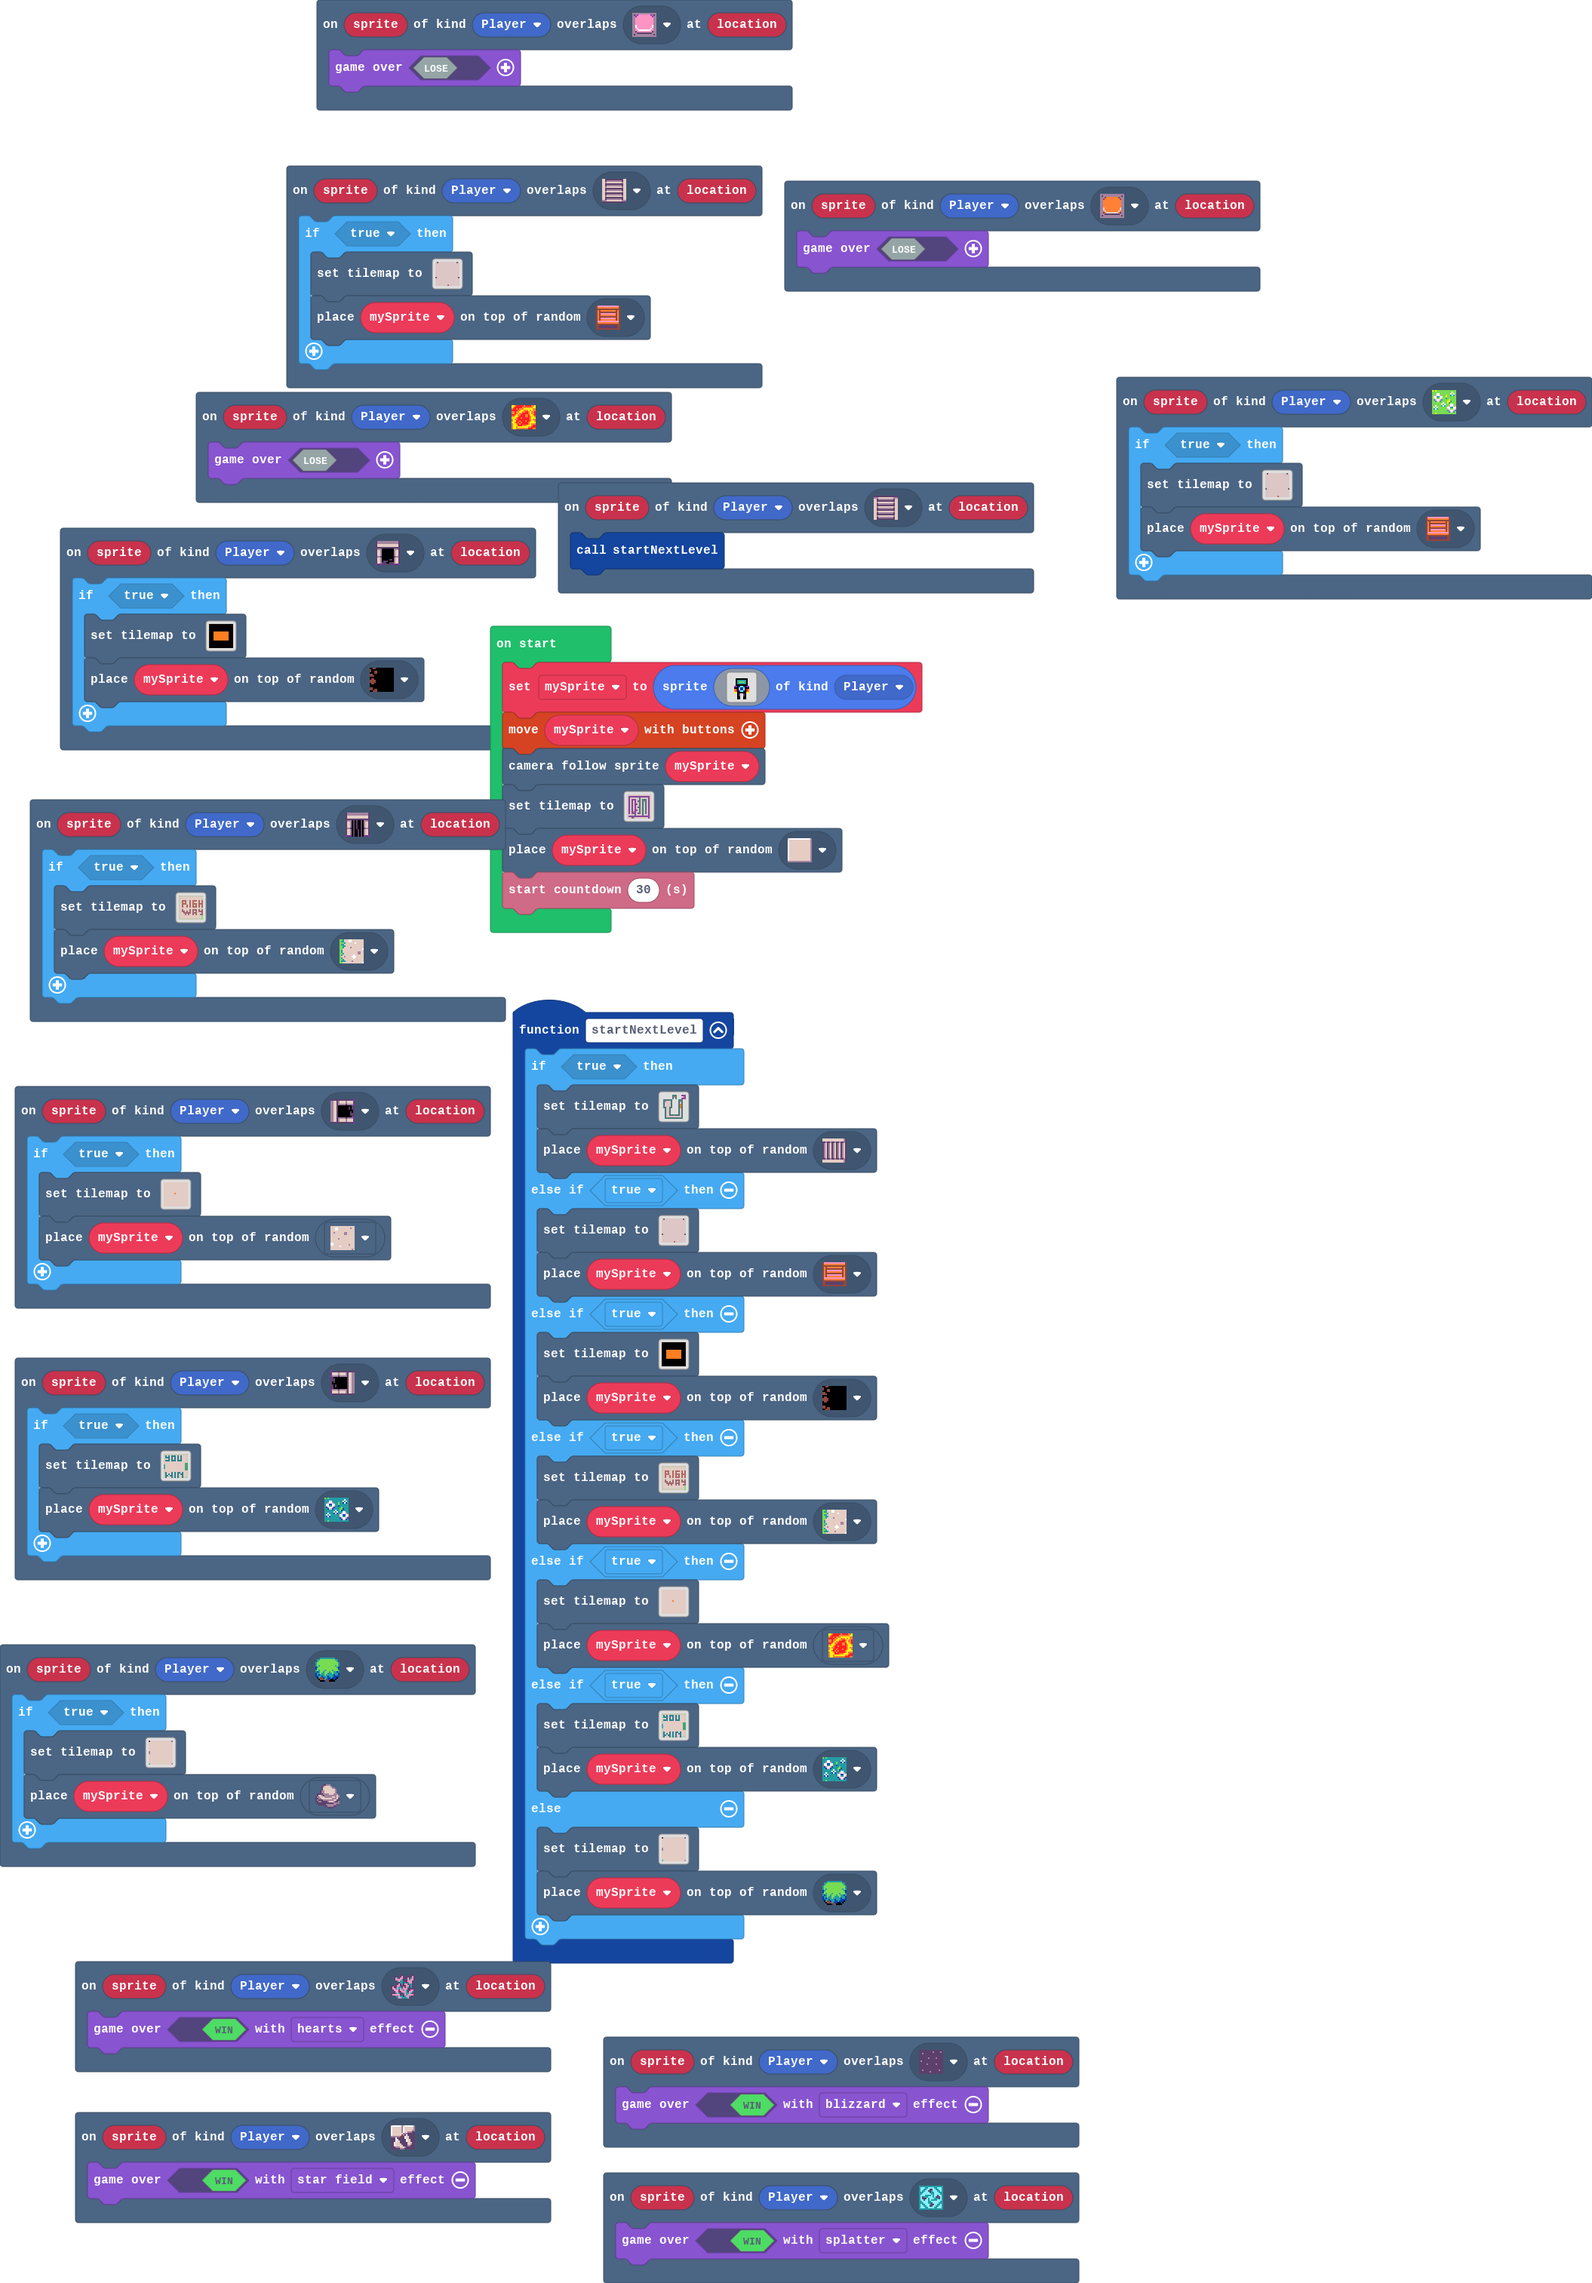
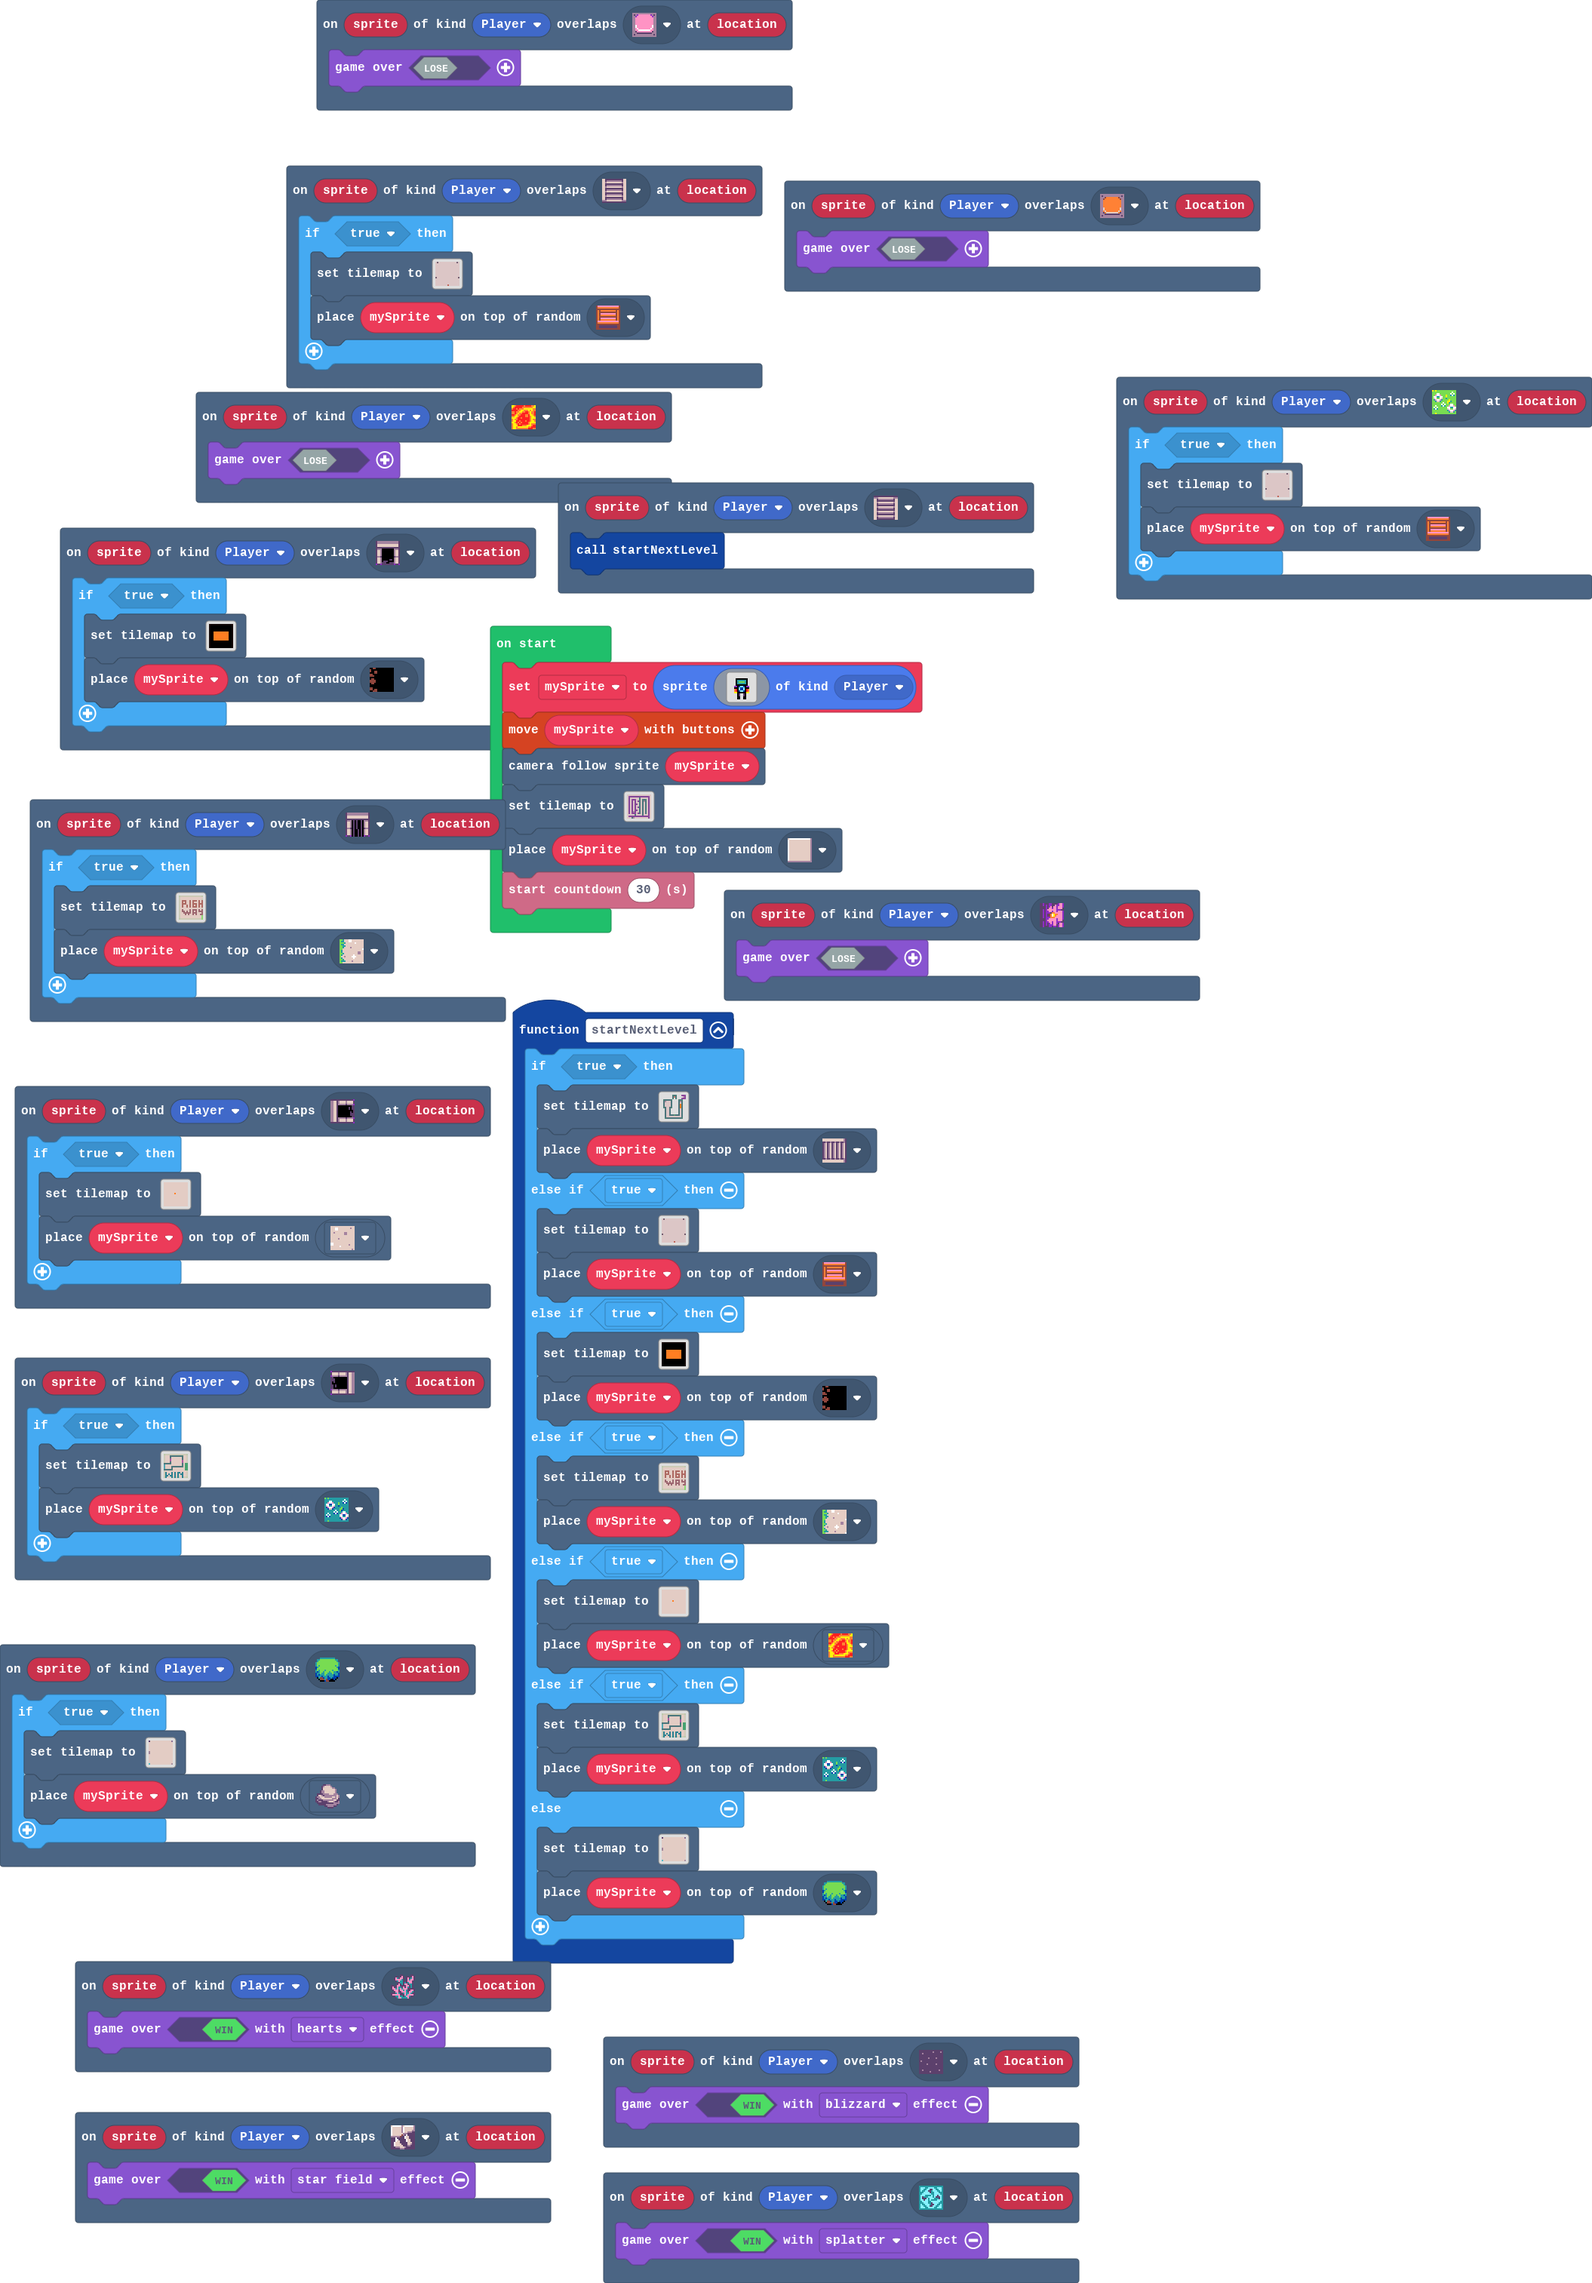
Update pxt.json, main.blocks, main.ts, tilemap.g.jres, tilemap.g.ts

Changed region(s): [[0.4313, 0.3728, 0.7701, 0.466]]

diff --git a/tilemap.g.ts b/tilemap.g.ts
@@ -197,25 +197,6 @@ namespace myTiles {
 . . . . . . . . . . . . . . . . 
 . . . . . . . . . . . . . . . . 
 `, [myTiles.transparency16], TileScale.Sixteen);
-            case "level14":
[1 lines of base64/hex data omitted]
-. . . . . . . . . . . . . . . . 
-. . . . . . . . . . . . . . . . 
-. . . . . . . . . . . . . . . . 
-. . . . . . . . . . . . . . . . 
-. . . . . . . . . . . . . . . . 
-. . . . . . . . . . . . . . . . 
-. . . . . . . . . . . . . . . . 
-. . . . . . . . . . . . . . . . 
-. . . . . . . . . . . . . . . . 
-. . . . . . . . . . . . . . . . 
-. . . . . . . . . . . . . . . . 
-. . . . . . . . . . . . . . . . 
-. . . . . . . . . . . . . . . . 
-. . . . . . . . . . . . . . . . 
-. . . . . . . . . . . . . . . . 
-. . . . . . . . . . . . . . . . 
-`, [myTiles.transparency16,sprites.castle.tilePath1,sprites.castle.tilePath4,sprites.castle.tilePath7,sprites.castle.tilePath8,sprites.castle.tilePath9,sprites.castle.tilePath6,sprites.castle.tilePath2,sprites.castle.tilePath3,sprites.castle.tilePath5,sprites.builtin.forestTiles0,sprites.swamp.swampTile0,sprites.castle.tileDarkGrass2], TileScale.Sixteen);
             case "level15":
             case "level15":return tiles.createTilemap(hex`1000100000000000000000000000000000000000000000000000000000000000000000000000000000000000000000000000000000000000000000000000000000000000000000000000000000000000000000000000000000000000000000000000000000000000000000000000000000000000000000000000000000000000000000000000000000000000000000000000000000000000000000000000000000000000000000000000000000000000000000000000000000000000000000000000000000000000000000000000000000000000000000000000000000000000000000000000000000000000000000000000000000000000000000000000000000000000`, img`
 . . . . . . . . . . . . . . . . 
@@ -349,6 +330,25 @@ namespace myTiles {
 . . . . . . . . . . . . . . . . 
 . . . . . . . . . . . . . . . . 
 `, [myTiles.transparency16,sprites.castle.tilePath5,sprites.builtin.coral0,sprites.dungeon.collectibleInsignia,sprites.dungeon.darkGroundCenter,sprites.dungeon.floorLight3,sprites.castle.rock0], TileScale.Sixteen);
+            case "level14":
[1 lines of base64/hex data omitted]
+. . . . . . . . . . . . . . . . 
+. . . . 2 2 2 2 2 2 2 2 2 . . . 
+. . . . 2 . . . . . . . 2 . . . 
+. . . . . . . . . . . . 2 . . . 
+. . . . . . . . . . . . 2 . . . 
+. . . . 2 . . . . . . . 2 . . . 
+2 2 2 2 2 . . . . . . . 2 . . . 
+. . . . . . . . . . . . 2 . . . 
+. . . . . 2 2 2 2 2 2 2 2 . . . 
+. . . . . 2 . . . . . . . . . . 
+2 2 2 2 2 2 . . . . . . . . . . 
+. . . . . . . . . . . . . . . . 
+. . . . . . . . . . . . . . . . 
+. . . . . . . . . . . . . . . . 
+. . . . . . . . . . . . . . . . 
+. . . . . . . . . . . . . . . . 
+`, [myTiles.transparency16,sprites.castle.tilePath1,sprites.castle.tilePath4,sprites.castle.tilePath7,sprites.castle.tilePath8,sprites.castle.tilePath9,sprites.castle.tilePath6,sprites.castle.tilePath2,sprites.castle.tilePath3,sprites.castle.tilePath5,sprites.builtin.forestTiles0,sprites.swamp.swampTile0,sprites.castle.tileDarkGrass2,sprites.dungeon.greenOuterNorth0,sprites.dungeon.greenOuterSouthWest,sprites.dungeon.greenOuterEast1,sprites.dungeon.greenOuterSouth0,sprites.dungeon.greenOuterNorthEast,sprites.dungeon.purpleOuterEast2,sprites.dungeon.purpleOuterWest2], TileScale.Sixteen);
         }
         return null;
     })

diff --git a/main.ts b/main.ts
@@ -7,6 +7,9 @@ scene.onOverlapTile(SpriteKind.Player, sprites.dungeon.stairNorth, function (spr
         tiles.placeOnRandomTile(mySprite, sprites.dungeon.stairLadder)
     }
 })
+scene.onOverlapTile(SpriteKind.Player, sprites.dungeon.purpleOuterEast2, function (sprite, location) {
+    game.over(false)
+})
 scene.onOverlapTile(SpriteKind.Player, sprites.builtin.forestTiles0, function (sprite, location) {
     if (true) {
         tiles.setTilemap(tilemap`level17`)
